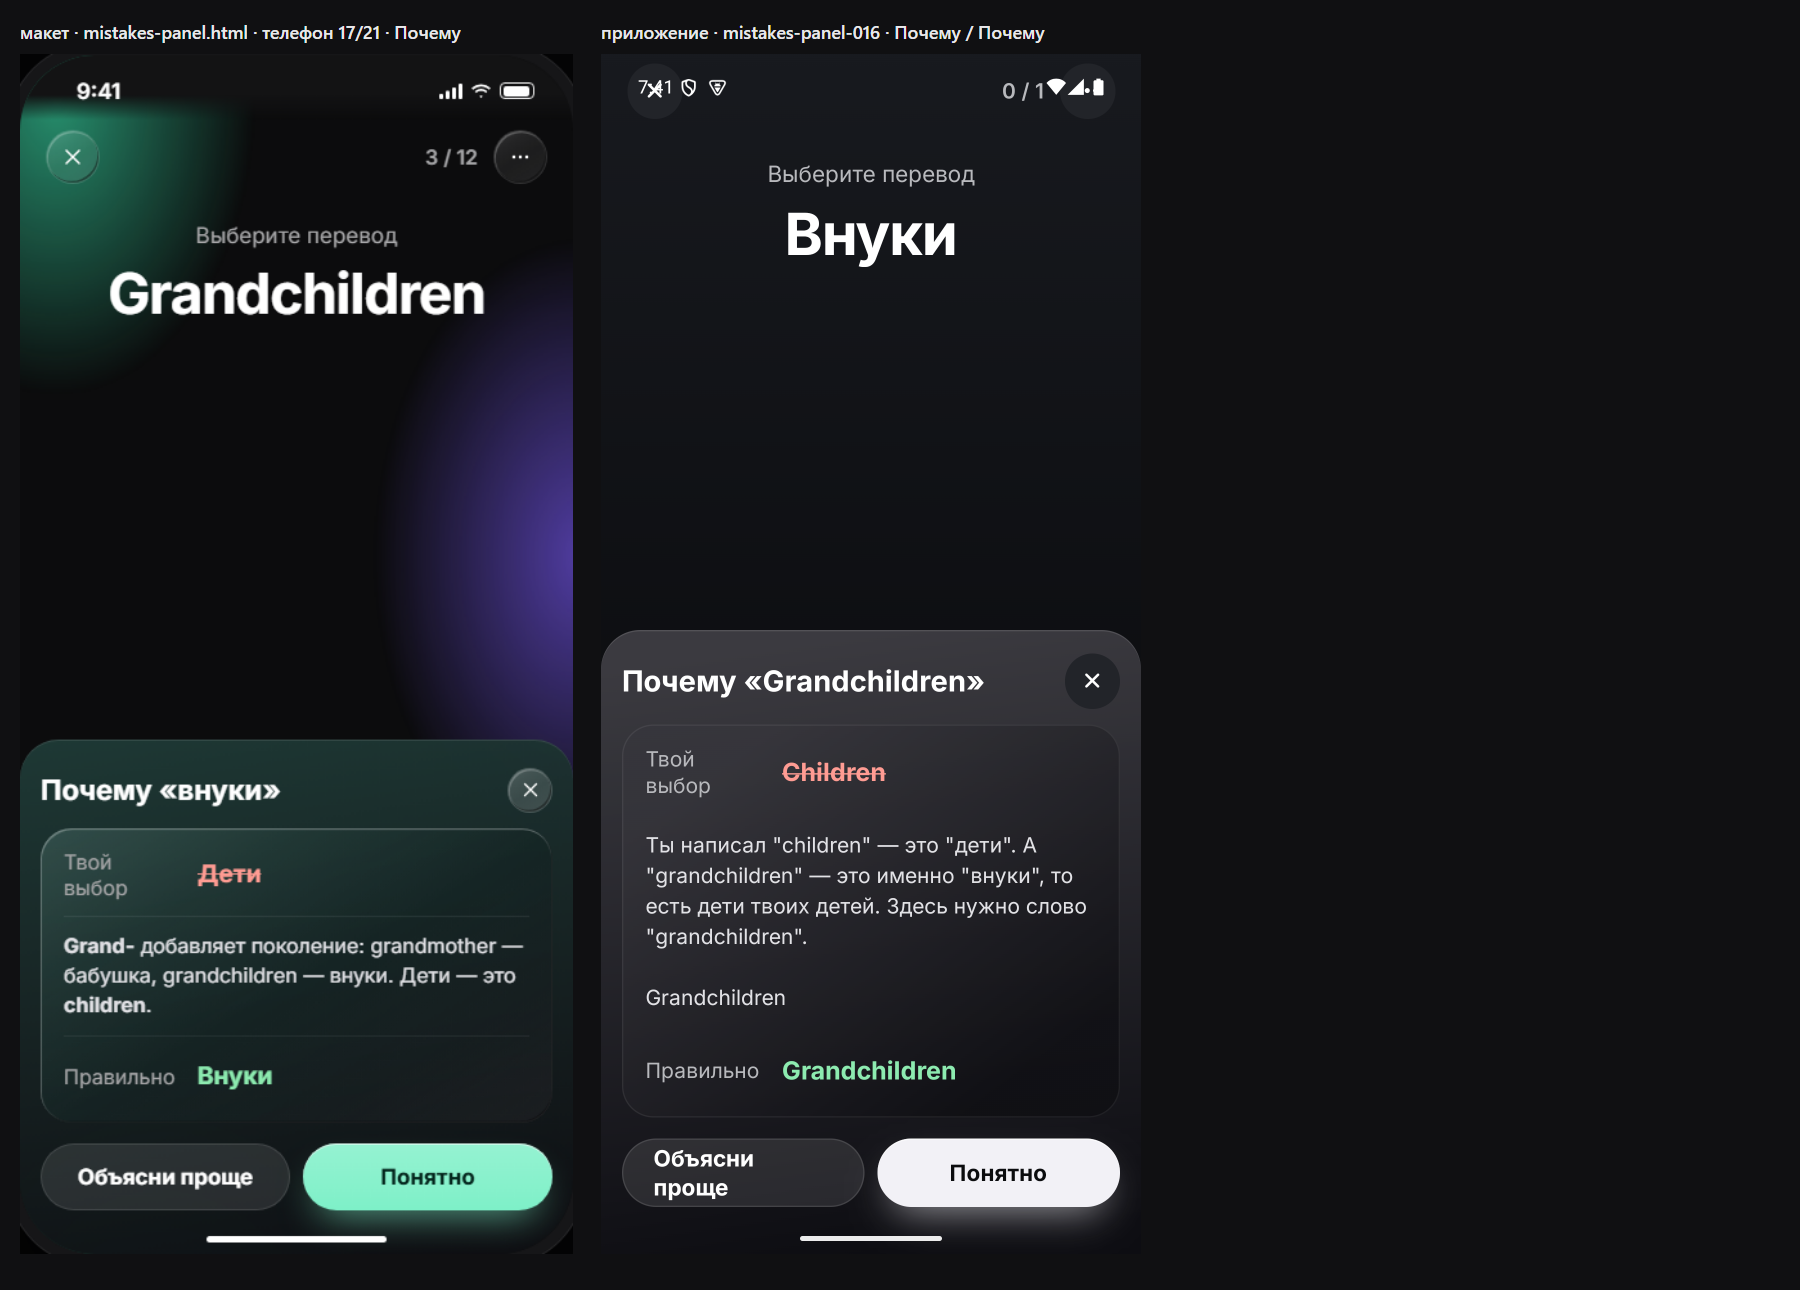
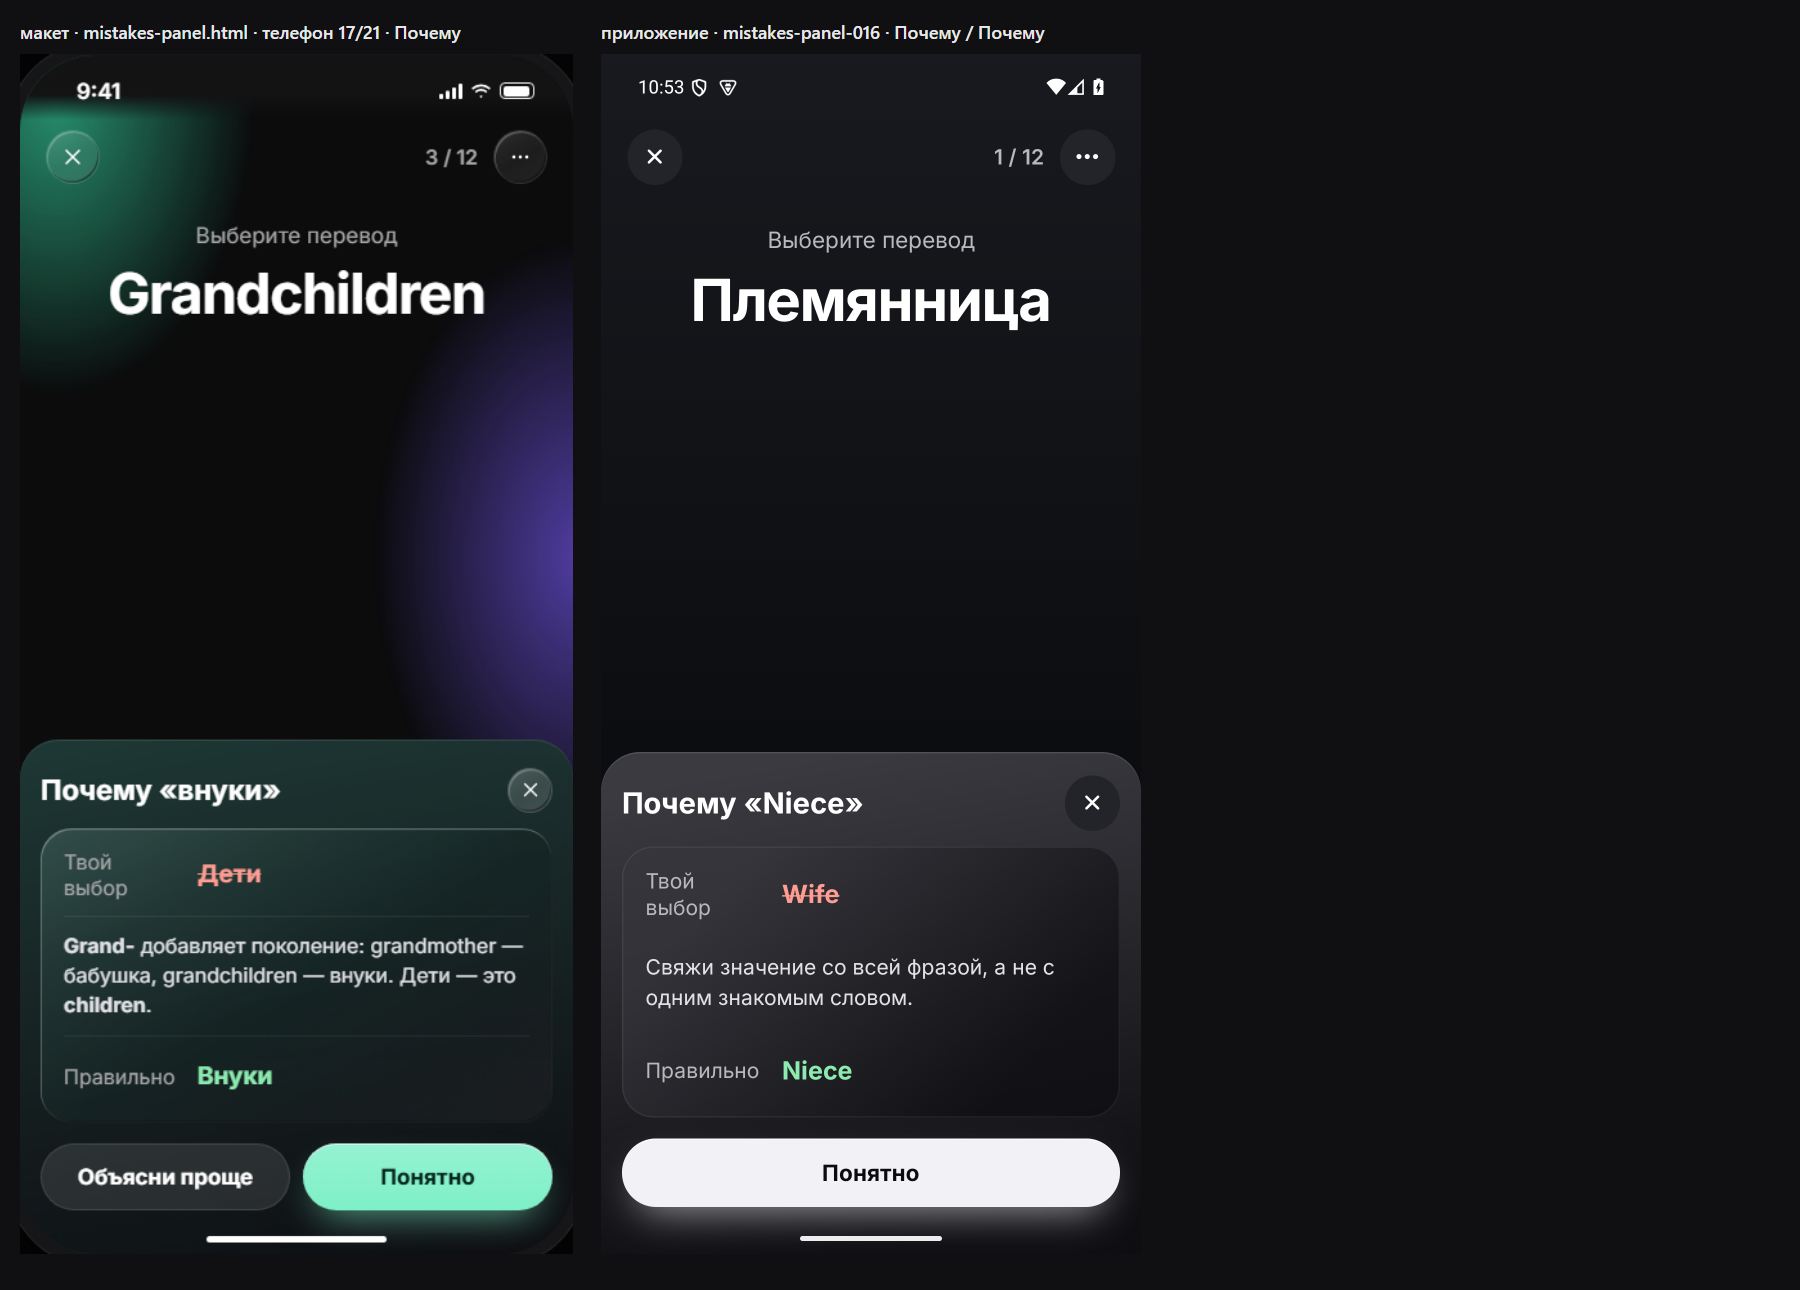
docs(sverka): кадр 17 «Почему» — ИИ-объяснение daily_limit при Plus; diffs mistakes-panel-016

diff --git a/docs/phraseman-2.0/evidence/parity/MISTAKE_RUN_2026-10-04_2233.md b/docs/phraseman-2.0/evidence/parity/MISTAKE_RUN_2026-10-04_2233.md
@@ -24,3 +24,9 @@
 - Оба: направление RU→EN («Муж» → Husband), в макете EN→RU («Grandchildren» → Внуки).
 
 Склейки: mistakes-panel-PH15-right.png, mistakes-panel-PH16-wrong.png. Полный лог: C:\Temp\claude\sv\rn_mistakes.log.
+
+## 22:53 — кадр 17 «Почему» + логи [MISTAKE-EXPLAIN]|[AI-EXPLAIN]|[MISTAKE-BUY]
+- Сессия ПРОДОЛЖИЛАСЬ (тот же sessionId, position 2), счётчик 1/12 — значит, верный ответ 22:36 всё-таки засчитан после перезапуска (в 22:36 на экране стояло 0/12 → счётчик обновляется не сразу). «Сегодня: Исправить ошибки» 1/5 → 2/5.
+- Ответ неверно (Wife на «Племянница»): advance correct=false requeue 13→14, verdict:shown ms 0.
+- 🔴 ИИ-объяснение: `[MISTAKE-EXPLAIN] autoload:request freeLeft=3 premium=true` → `[AI-EXPLAIN] mistake:call attempt=1/3` → `[AI-EXPLAIN] mistake:daily_limit` → `autoload:skip state=limit`. **Отказ по дневному лимиту при Plus и freeLeft=3.** [MISTAKE-BUY] — строк нет.
+- На экране: «Почему «Niece»», текст общий, нет «Объясни проще», нет разделителей. Склейка mistakes-panel-PH17-why.png.
